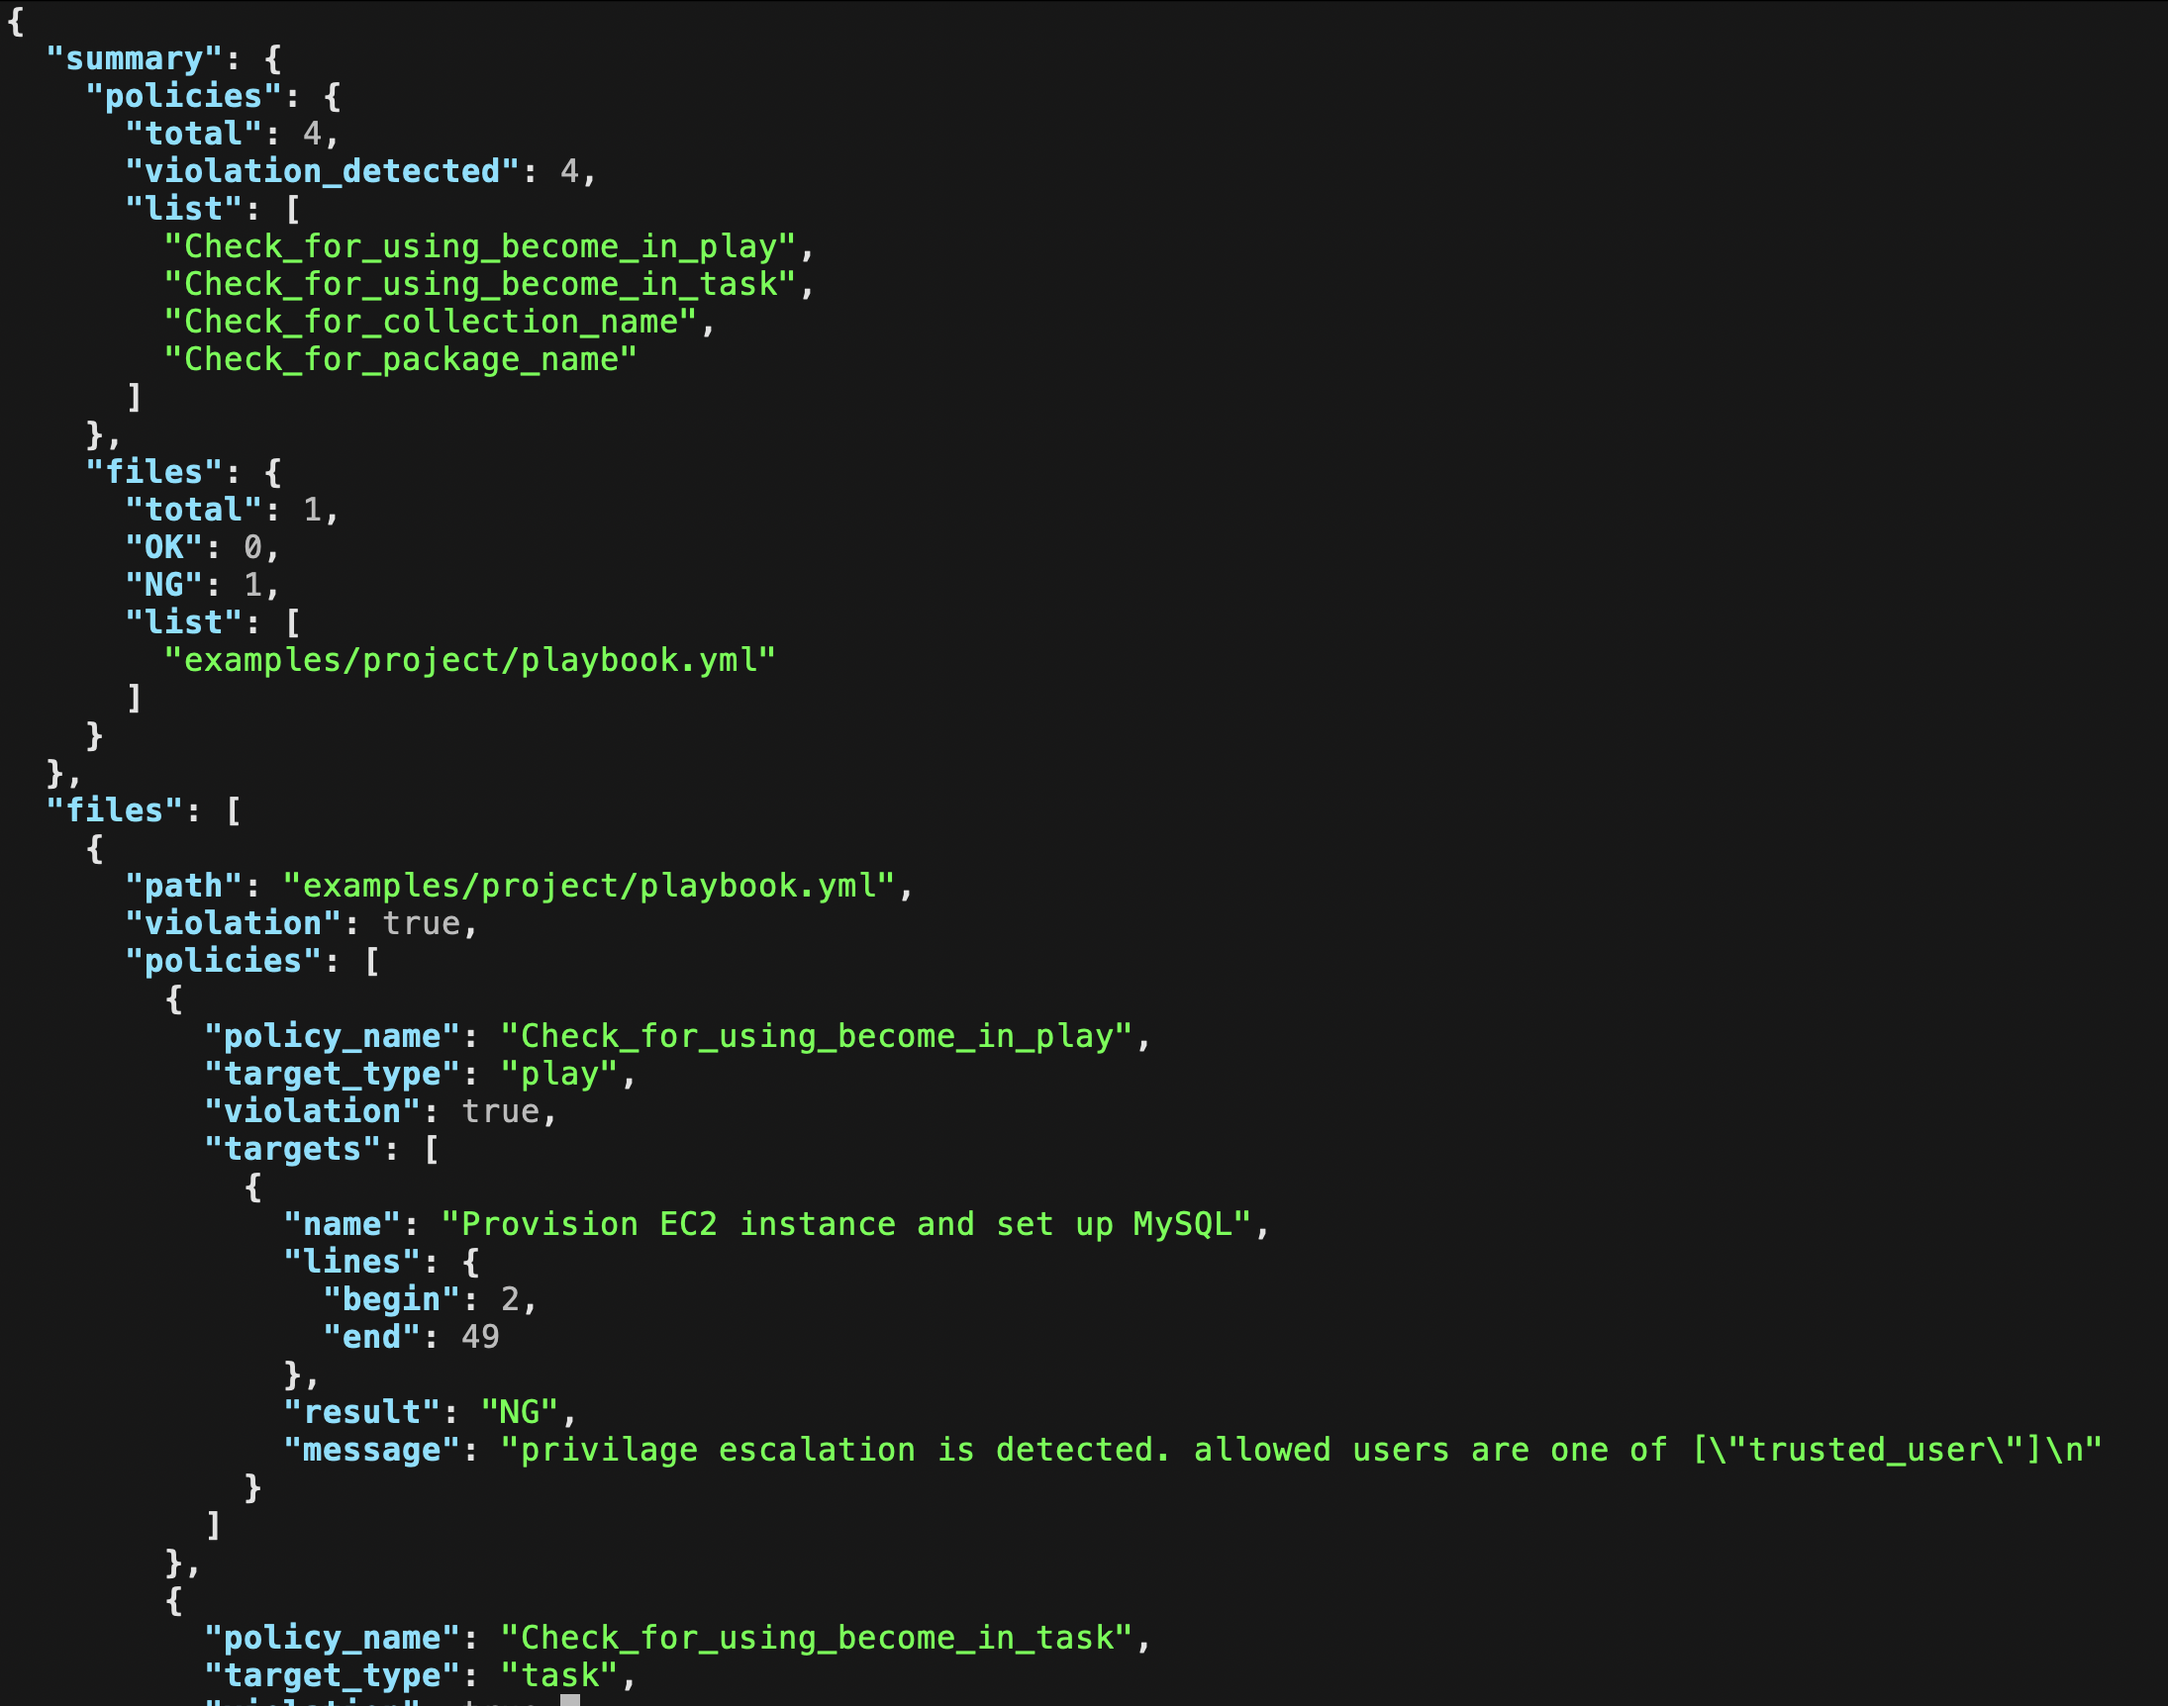
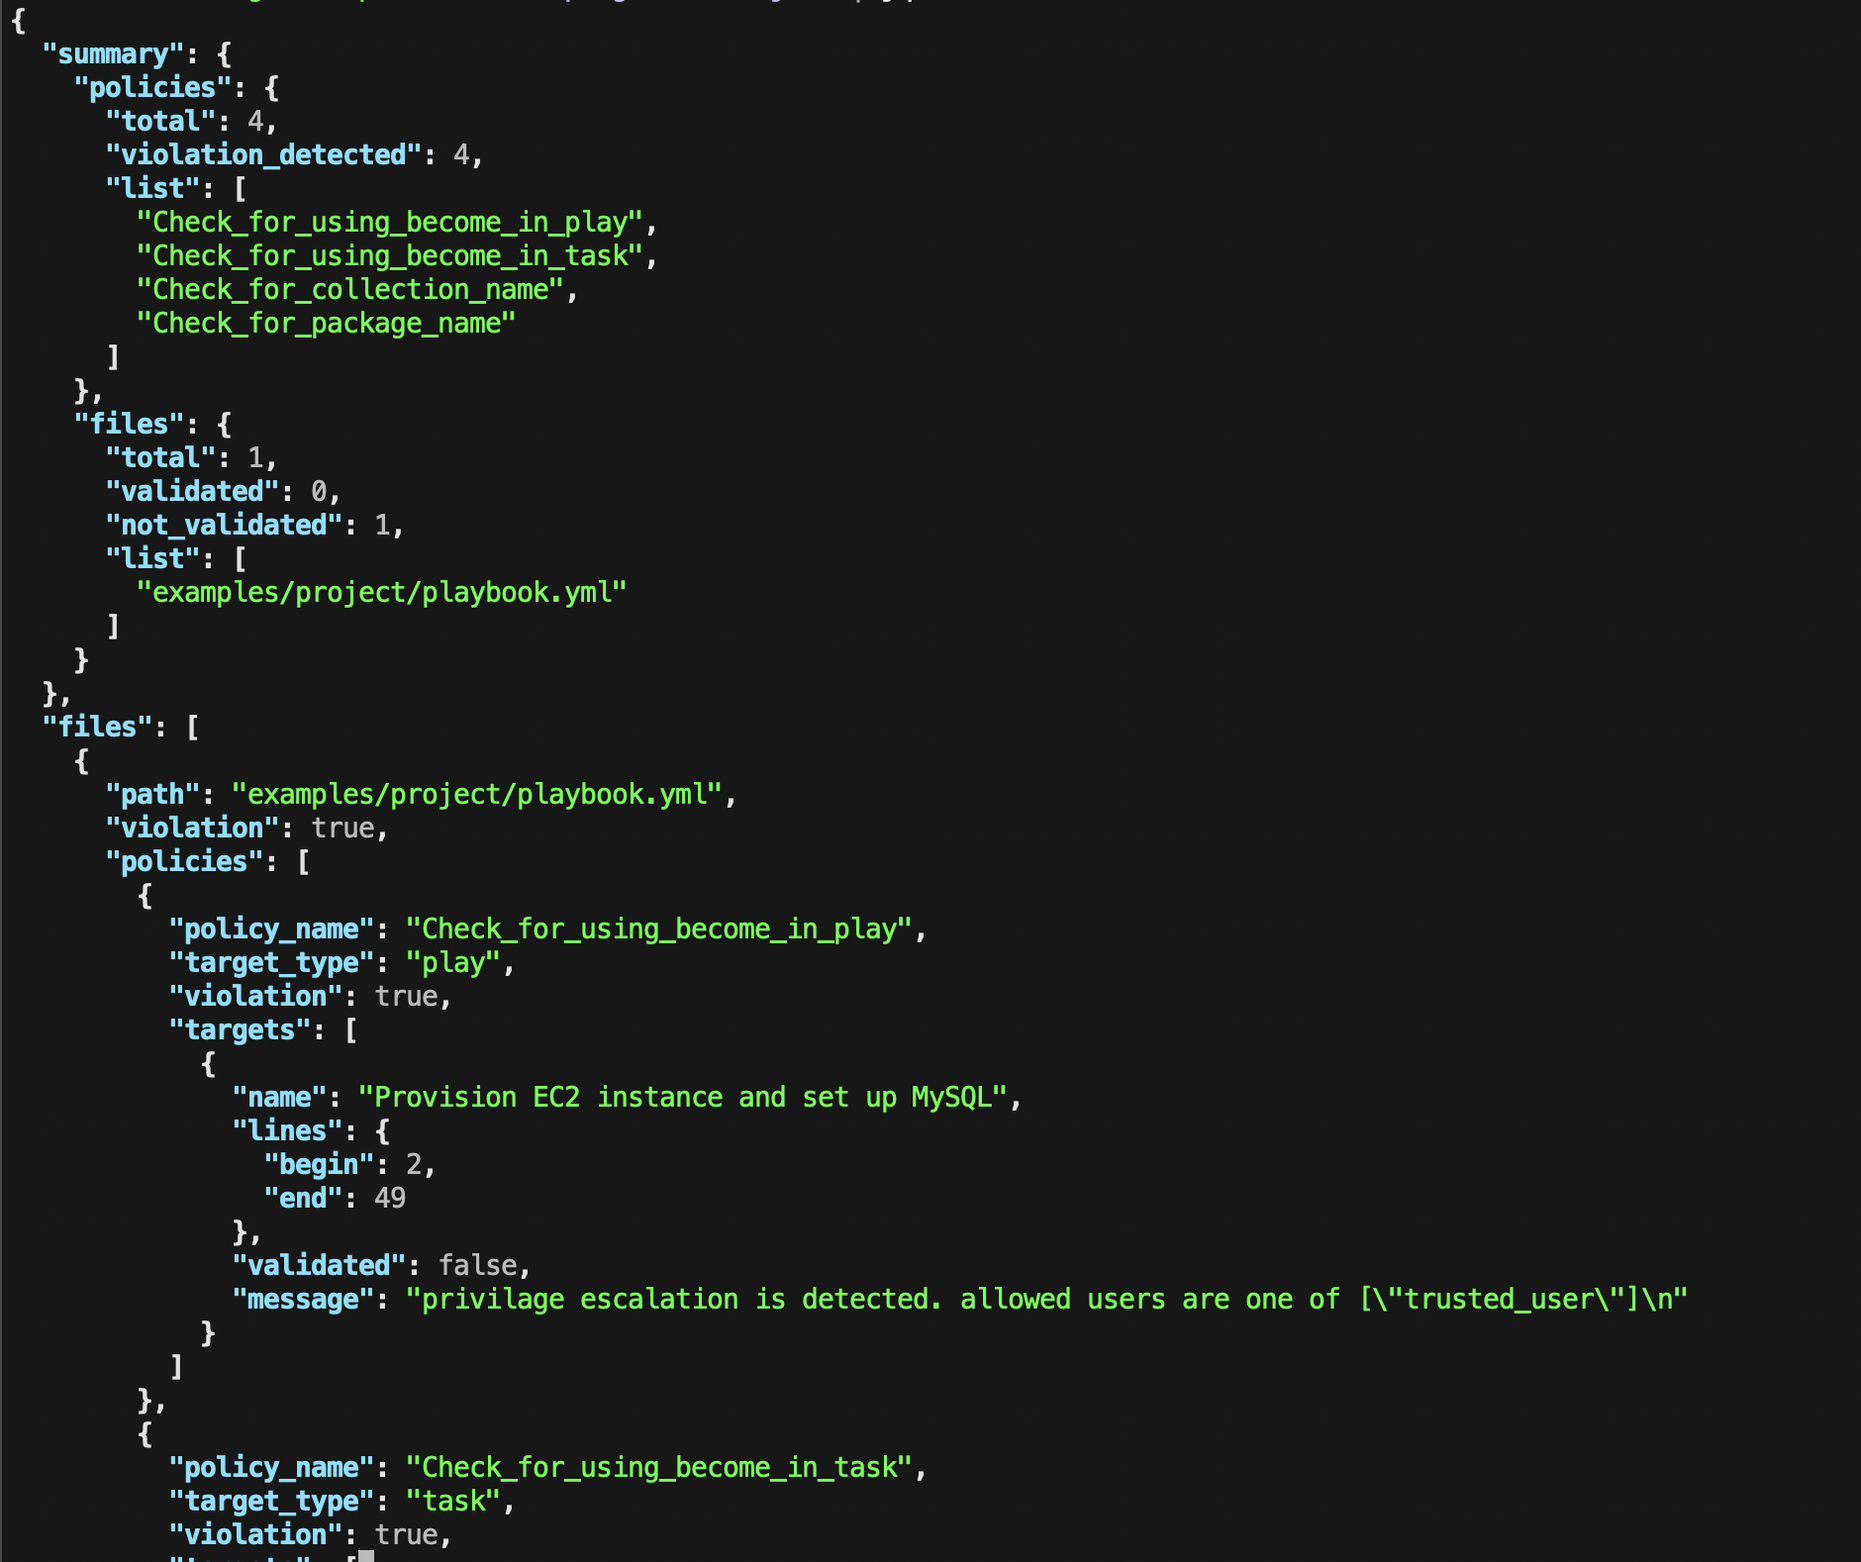
use validated flag instead of ok ng

diff --git a/ansible_gatekeeper/models.py b/ansible_gatekeeper/models.py
@@ -331,15 +331,15 @@ class Transpiler(object):
             transpile_yml_policy(src=yml_policy_path, dst=dst_path)
 
 
-class ResultType:
-    OK = "OK"
-    NG = "NG"
-    N_A = "N/A"
+class ValidationType:
+    SUCCESS = True
+    FAILURE = False
+    NONE = None
 
     @staticmethod
     def from_eval_result(eval_result: dict, is_target_type: bool):
         if not is_target_type:
-            return ResultType.N_A
+            return ValidationType.NONE
 
         eval_result_value = eval_result.get("value", {})
         violation = False
@@ -350,16 +350,16 @@ class ResultType:
             if not eval_result_value["allow"]:
                 violation = True
         if violation:
-            return ResultType.NG
+            return ValidationType.FAILURE
         else:
-            return ResultType.OK
+            return ValidationType.SUCCESS
 
 
 @dataclass
 class TargetResult(object):
     name: str = None
     lines: dict = field(default_factory=dict)
-    result: str = None
+    validated: bool = None
     message: str = None
 
 
@@ -370,10 +370,10 @@ class PolicyResult(object):
     violation: bool = False
     targets: List[TargetResult] = field(default_factory=list)
 
-    def add_target_result(self, obj: any, lines: dict, result: str, message: str):
+    def add_target_result(self, obj: any, lines: dict, validated: bool, message: str):
         target_name = getattr(obj, "name", None)
-        target = TargetResult(name=target_name, lines=lines, result=result, message=message)
-        if result == ResultType.NG:
+        target = TargetResult(name=target_name, lines=lines, validated=validated, message=message)
+        if isinstance(validated, bool) and not validated:
             self.violation = True
         self.targets.append(target)
 
@@ -395,7 +395,7 @@ class FileResult(object):
     ):
         policy_result = self.get_policy_result(policy_name=policy_name)
         need_append = False
-        result_str = ResultType.from_eval_result(eval_result=eval_result, is_target_type=is_target_type)
+        validated = ValidationType.from_eval_result(eval_result=eval_result, is_target_type=is_target_type)
         message = eval_result.get("message")
         if not policy_result:
             policy_result = PolicyResult(
@@ -404,7 +404,7 @@ class FileResult(object):
             )
             need_append = True
         if is_target_type:
-            policy_result.add_target_result(obj=obj, lines=lines, result=result_str, message=message)
+            policy_result.add_target_result(obj=obj, lines=lines, validated=validated, message=message)
         if need_append:
             self.policies.append(policy_result)
 
@@ -450,8 +450,8 @@ class EvaluationSummary(object):
         }
         files_data = {
             "total": total_files,
-            "OK": total_files - violation_files,
-            "NG": violation_files,
+            "validated": total_files - violation_files,
+            "not_validated": violation_files,
             "list": file_names,
         }
         return EvaluationSummary(
@@ -645,12 +645,12 @@ class ResultFormatter(object):
         return
 
     def print(self, result: EvaluationResult):
-        ng_targets = []
+        not_validated_targets = []
         for f in result.files:
             filepath = f.path
             for p in f.policies:
                 for t in p.targets:
-                    if t.result == ResultType.NG:
+                    if isinstance(t.validated, bool) and not t.validated:
                         detail = {
                             "type": p.target_type,
                             "name": t.name,
@@ -659,10 +659,10 @@ class ResultFormatter(object):
                             "lines": CodeBlock.dict2str(t.lines),
                             "message": t.message,
                         }
-                        ng_targets.append(detail)
+                        not_validated_targets.append(detail)
         headers = []
         violation_per_type = {}
-        for d in ng_targets:
+        for d in not_validated_targets:
             _type = d.get("type", "")
             _type_up = _type.upper()
             name = d.get("name", "")
@@ -683,7 +683,7 @@ class ResultFormatter(object):
                 print(header)
                 headers.append(header)
 
-            flag = "NG"
+            flag = "Not Validated"
             if self.isatty:
                 flag = f"\033[91m{flag}\033[00m"
                 message = f"\033[90m{message}\033[00m"
@@ -693,16 +693,16 @@ class ResultFormatter(object):
         print("-" * self.term_width)
         print("SUMMARY")
         total_files = result.summary.files.get("total", 0)
-        ok_files = result.summary.files.get("OK", 0)
-        ng_files = result.summary.files.get("NG", 0)
+        valid_files = result.summary.files.get("validated", 0)
+        not_valid_files = result.summary.files.get("not_validated", 0)
         total_label = "Total files"
-        ok_label = "OK"
-        ng_label = "NG"
+        valid_label = "Validated"
+        not_valid_label = "Not Validated"
         if self.isatty:
             total_label = f"\033[92m{total_label}\033[00m"
-            ok_label = f"\033[96m{ok_label}\033[00m"
-            ng_label = f"\033[91m{ng_label}\033[00m"
-        print(f"... {total_label}: {total_files}, {ok_label}: {ok_files}, {ng_label}: {ng_files}")
+            valid_label = f"\033[96m{valid_label}\033[00m"
+            not_valid_label = f"\033[91m{not_valid_label}\033[00m"
+        print(f"... {total_label}: {total_files}, {valid_label}: {valid_files}, {not_valid_label}: {not_valid_files}")
         print("")
         count_str = ""
         for _type, _list in violation_per_type.items():

diff --git a/README.md b/README.md
@@ -137,8 +137,8 @@ For example, you can get a summary about files by `jq` command like this.
 $ cat agk-result.json | jq .summary.files
 {
   "total": 1,
-  "OK": 0,
-  "NG": 1,
+  "validated": 0,
+  "not_validated": 1,
   "list": [
     "examples/project/playbook.yml"
   ]
@@ -168,7 +168,7 @@ cat /tmp/agk-result.json | jq .files[0].policies[1].targets[1]
     "begin": 31,
     "end": 36
   },
-  "result": "NG",
+  "validated": false,
   "message": "privilage escalation is detected. allowed users are one of [\"trusted_user\"]\n"
 }
 ```
